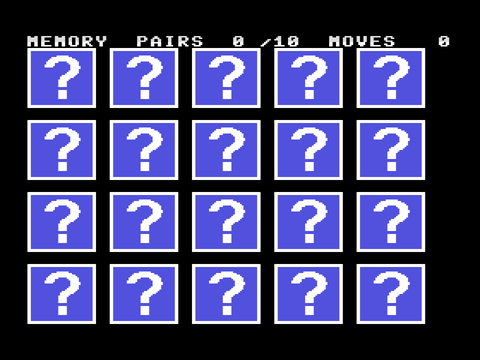
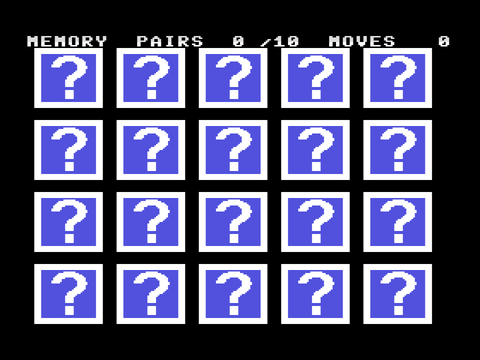
Build 87: centred memory cards, no stale job row on the title after a memory game
- memory cards are blocks of 6 x 5 characters (40 px card, 4 px black margin each side): the board is centred; edge characters hold black + one card colour (no colour bleed), the frame of the card back is 4 px
- the card data moved to its own bank (MEMD = MEMB + 1)
- job_reset when the memory game ends: the engine of the player kept the last card row and drew it over the title photo (streak)
- manual: new memory screenshots

Changed region(s): [[0.0312, 0.3361, 0.9062, 0.7028], [0.0312, 0.1222, 0.9062, 0.3056], [0.0312, 0.7333, 0.9062, 0.9167]]

diff --git a/tools/patch_cards6.py b/tools/patch_cards6.py
@@ -1,0 +1,91 @@
+"""one-off patch (applied once): the memory cards centred. A card is 40 x 40 pixels inside a block of 6 x 5 characters (48 x 40: four black pixels at both sides), so the
+5 blocks of the row fill the characters 1..30 and the margins at the left and the right are equal (12 pixels). The edge characters hold black and one card colour only (the frame is 4 pixels
+wide, the photos are coded with the black margin as a fixed colour): no colour bleed. 13 x 2 cards of 480 bytes do not fit in the overlay bank any more: they sit in their own data bank MEMD = MEMB + 1."""
+import os, re
+HERE = os.path.dirname(os.path.abspath(__file__)); G = os.path.join(HERE, '..', 'game')
+
+# ---- memplay.asm
+p = os.path.join(G, 'memplay.asm'); t = open(p).read()
+a = t.index('MEMDATA equ 0x4600'); b = t.index('        MACRO CELLADDR')
+t = t[:a] + """MEMDATA equ 0x4600
+CARD    equ 480                         ; a card: 5 rows of 48 pattern bytes, 5 rows of 48 colour bytes (6 x 5 characters: 40 pixels and a black margin of 4 pixels at both sides)
+MEMICON equ MEMDATA                     ; the big cards of the choice screen (2080 bytes each: MSX1, MSX2); the cards themselves are in the bank MEMD (26 x 480 bytes)
+
+""" + t[b:]
+a = t.index('csrc:'); b = t.index('dcard:')
+t = t[:a] + """csrc:   ld l,d                          ; D = card image 0..12 -> HL = its address in the bank MEMD as page 1 shows it (4000h +): 480 d (the variant of the machine)
+        ld h,0
+        add hl,hl
+        add hl,hl
+        add hl,hl
+        add hl,hl
+        add hl,hl                       ; 32 d
+        ld c,l
+        ld b,h
+        add hl,hl
+        add hl,hl
+        add hl,hl
+        add hl,hl                       ; 512 d
+        or a
+        sbc hl,bc                       ; 480 d
+        ld bc,0x4000
+        IF MSX2PAL
+        ld a,(v_msx)
+        or a
+        jr z,.b
+        ld bc,0x4000 + 13 * CARD
+.b:
+        ENDIF
+        add hl,bc
+        ret
+
+""" + t[b:]
+old = "dcard:  push de                         ; E = place, D = image\n        call csrc\n        pop de\n"
+assert old in t
+t = t.replace(old, """dcard:  push de                         ; E = place, D = image: the card is read through the window of page 2 (the bank MEMD)
+        call csrc
+        ld a,h
+        add a,0x40                      ; 8000h +
+        ld h,a
+        push hl
+        ld hl,MEMD
+        ld a,l
+        ld (0x7000),a
+        ld a,h
+        BANKHI 0x7001
+        pop hl
+        pop de
+""", 1)
+old = "        ld c,0x98\n        ld b,40\n.o:     outi\n        jp nz,.o\n        pop bc\n        inc b                           ; the next character row\n"
+assert old in t
+t = t.replace(old, old.replace('ld b,40', 'ld b,48'), 1)
+old = "        add a,8\n        ld (v_cx),a\n        ld a,(m_cy)"
+assert old in t
+t = t.replace(old, "        add a,12                        ; (the card starts four pixels into its block)\n        ld (v_cx),a\n        ld a,(m_cy)", 1)
+t = t.replace("x = 8 + 48 cx, y = 8 + 48 cy", "x = 12 + 48 cx, y = 8 + 48 cy", 1)
+t = t.replace("5 x 4 cards of 40 x 40 pixels (5 x 5 characters) with a gap of one character: card (cx, cy) has its top left\n; character at column 1 + 6 cx, row 1 + 6 cy; row 0 is the header.  The cards are in MEMDATA (tools/memory_cards.py): 13 per variant (12 photos, the back), 400 bytes each:\n; 5 rows of 40 pattern bytes, 5 rows of 40 colour bytes.",
+              "5 x 4 cards of 40 x 40 pixels in blocks of 6 x 5 characters (a black margin of 4 pixels at both sides): the block of card (cx, cy) has its top left\n; character at column 1 + 6 cx, row 1 + 6 cy; row 0 is the header.  The cards are in the bank MEMD (tools/memory_cards.py): 13 per variant (12 photos, the back), 480 bytes each:\n; 5 rows of 48 pattern bytes, 5 rows of 48 colour bytes.", 1)
+open(p, 'w').write(t)
+
+# ---- memory.asm (mem_jobs)
+p = os.path.join(G, 'memory.asm'); t = open(p).read()
+assert 'ld hl,MEMB\n        ld (q_bank),hl' in t
+t = t.replace('ld hl,MEMB\n        ld (q_bank),hl', 'ld hl,MEMD\n        ld (q_bank),hl', 1)
+t = t.replace("        ld b,40                         ; the patterns: 5 rows of 40 bytes", "        ld b,48                         ; the patterns: 5 rows of 48 bytes", 1)
+t = t.replace("        ld bc,200\n        add hl,bc                       ; the colours: 200 bytes further", "        ld bc,240\n        add hl,bc                       ; the colours: 240 bytes further", 1)
+t = t.replace("        ld b,40\n        ld c,5\n        call jq_put\n        pop hl\n        pop bc\n        djnz .e", "        ld b,48\n        ld c,5\n        call jq_put\n        pop hl\n        pop bc\n        djnz .e", 1)
+assert t.count('ld b,48') == 2, t.count('ld b,48')
+open(p, 'w').write(t)
+
+# ---- build_game.py
+p = os.path.join(HERE, 'build_game.py'); t = open(p).read()
+old = "    MEMB = len(banks) + (sum(nb) if ascii16 else 0)"
+assert old in t
+t = t.replace("    open(os.path.join(PROJ, 'game', 'memdata.bin'), 'wb').write(mc['data'])\n", "    open(os.path.join(PROJ, 'game', 'memdata.bin'), 'wb').write(mc['data'])\n    cardbank = pad(mc['cards'])                                                  # the cards of the memory game: their own bank (MEMD = MEMB + 1)\n", 1)
+t = t.replace("    assert MEMB < PLR_BANK - 1, MEMB\n", "    assert MEMB + 1 < PLR_BANK - 1, MEMB\n", 1)
+t = t.replace("'MEMB equ %d\nMEMPAL equ %d\nCHTH0 equ %d\nCHOICEPAL equ %d\n' % (MEMB, MEMPAL, CHTH0, CHOICEPAL)", "'MEMB equ %d\nMEMD equ %d\nMEMPAL equ %d\nCHTH0 equ %d\nCHOICEPAL equ %d\n' % (MEMB, MEMB + 1, MEMPAL, CHTH0, CHOICEPAL)", 1)
+t = t.replace("        f.write(membank)                # the memory game (MEMB = the first free bank)\n        f.write(bytes([0xFF]) * 16384 * (PLR_BANK - 2 - len(banks) - (sum(nb) if ascii16 else 0)))",
+              "        f.write(membank)                # the memory game (MEMB = the first free bank)\n        f.write(cardbank)               # its cards (MEMD = MEMB + 1)\n        f.write(bytes([0xFF]) * 16384 * (PLR_BANK - 3 - len(banks) - (sum(nb) if ascii16 else 0)))", 1)
+assert 'MEMD equ' in t and 'f.write(cardbank)' in t and 'PLR_BANK - 3 -' in t and "cardbank = pad" in t
+open(p, 'w').write(t)
+print('patched')

diff --git a/tools/memory_cards.py b/tools/memory_cards.py
@@ -1,5 +1,5 @@
-"""The cards of the memory game (game/memplay.asm): 12 photo cards and the back of a card, 40 x 40 pixels = 5 x 5 characters, coded for SCREEN 2 (2 colours per 8x1):
-a card = 5 rows of 40 pattern bytes, then 5 rows of 40 colour bytes (400 bytes; one character row of the card is 5 characters = 40 contiguous bytes in the VRAM).
+"""The cards of the memory game (game/memplay.asm): 12 photo cards and the back of a card, 40 x 40 pixels, coded for SCREEN 2 (2 colours per 8x1):
+a card = a block of 6 x 5 characters (48 x 40 pixels: the card with a black margin of 4 pixels at both sides): 5 rows of 48 pattern bytes, then 5 rows of 48 colour bytes (480 bytes).
  MSX1: the photos for the TMS9918A palette; MSX2: for one palette of 16 colours for all the cards (colours 0 and 1 black, 4 = the blue of the card back, 3 / 9 (cursor), 14 / 15 (text) as in the TMS9918A; the other 9 are
  optimised on the mosaic of the photos).  The back of the card is drawn with exactly two colours (blue 4 and white 15), not coded: no dither, no colour spill.
   build() -> dict(data = 2 x 13 cards (MSX1 photos 0..11 + back, MSX2 photos 0..11 + back), pal = 32 bytes V9938 of the MSX2 palette, previews in work/preview/memory_*.png)"""
@@ -9,6 +9,7 @@ from PIL import Image, ImageDraw, ImageFont
 HERE = os.path.dirname(os.path.abspath(__file__)); PROJ = os.path.dirname(HERE)
 sys.path.insert(0, HERE); sys.path.insert(0, r'F:\MSX Projects\Dev27\msx1-video-player\tools')
 CW = CH = 40
+CWB, MARG = 48, 4                                   # a block of 6 x 5 characters: the card with a black margin of 4 pixels at both sides (the blocks of the row are centred on the screen)
 BLUE, WHITE = 4, 15
 KEEP = (3, 9, 14, 15)                            # the colours of the cursor (flashing, as everywhere in the game) and of the bold text (grey, white): as the TMS9918A has them
 FREE = [2, 5, 6, 7, 8, 10, 11, 12, 13]
@@ -57,10 +58,10 @@ def palette(tl):
 
 
 def back_mask():
-    """the back of a card: a white frame and a white question mark on blue (two colours only); the question mark is centred on its ink"""
+    """the back of a card (40 x 40): a white frame of 4 pixels and a white question mark; the question mark is centred on its ink"""
     im = Image.new('L', (CW, CH), 0)
     d = ImageDraw.Draw(im)
-    d.rectangle([0, 0, CW - 1, CH - 1], outline=255, width=2)
+    d.rectangle([0, 0, CW - 1, CH - 1], outline=255, width=4)
     f = ImageFont.truetype('C:/Windows/Fonts/arialbd.ttf', 40)
     x0, y0, x1, y1 = d.textbbox((0, 0), '?', font=f)
     d.text(((CW - (x1 - x0)) // 2 - x0, (CH - (y1 - y0)) // 2 - y0), '?', font=f, fill=255)
@@ -110,11 +111,32 @@ def card_bytes(pat, col):
 
 
 def back_card():
-    m = back_mask()
-    pat = (m.reshape(CH, CW // 8, 8).astype(np.uint8) << (7 - np.arange(8, dtype=np.uint8))).sum(-1).astype(np.uint8)
-    col = np.full(pat.shape, (WHITE << 4) | BLUE, np.uint8)
-    rend = np.zeros((CH, CW, 3), np.uint8)
+    """-> the bytes of the card (6 x 5 characters) and the mask of the white; the edge characters hold black and white only (the frame is 4 pixels wide), the others blue and white"""
+    m = np.zeros((CH, CWB), bool)
+    m[:, MARG:MARG + CW] = back_mask()
+    card = np.zeros((CH, CWB), bool)
+    card[:, MARG:MARG + CW] = True
+    pat = np.zeros((CH, CWB // 8), np.uint8)
+    col = np.zeros((CH, CWB // 8), np.uint8)
+    for y in range(CH):
+        for cx in range(CWB // 8):
+            sl = slice(cx * 8, cx * 8 + 8)
+            w, c = m[y, sl], card[y, sl]
+            bg = BLUE if c.all() else 1
+            assert c.all() or (w == c).all(), (y, cx)           # an edge character: the card pixels in it are white (no blue next to the black margin)
+            pat[y, cx] = int(sum(1 << (7 - i) for i in range(8) if w[i]))
+            col[y, cx] = (WHITE << 4) | bg
     return card_bytes(pat, col), m
+
+
+def pad_card(t):
+    """a 40 x 40 photo in a block of 48 x 40: a black margin of 4 pixels at both sides (fixed black: the edge characters keep black and one photo colour)"""
+    img = np.zeros((CH, CWB, 3), np.float32)
+    img[:, MARG:MARG + CW] = np.asarray(t, np.float32)
+    fix = np.zeros((CH, CWB), np.int8)
+    fix[:, :MARG] = 1
+    fix[:, MARG + CW:] = 1
+    return img, fix
 
 
 def build(blue_msx2=5):
@@ -132,19 +154,21 @@ def build(blue_msx2=5):
     for kind, tl, pl in ((1, t1, None), (2, t2, pal)):
         rs = []
         for t in tl:
-            pat, col, rend = stills.encode(np.asarray(t, np.float32), None, pl)
+            img, fix = pad_card(t)
+            pat, col, rend = stills.encode(img, fix, pl)
             data += card_bytes(pat, col); rs.append(rend)
         data += bk
         rends[kind] = rs
     for kind in (1, 2):
         pl = pal if kind == 2 else PO.TMS
-        sh = Image.new('RGB', (4 * 44 * 3, 4 * 44 * 3))
-        for k, r in enumerate(rends[kind] + [np.where(m[..., None], pl[WHITE], pl[BLUE]).astype(np.uint8)]):
-            sh.paste(Image.fromarray(np.asarray(r, np.uint8)).resize((120, 120), Image.NEAREST), ((k % 4) * 132, (k // 4) * 132))
+        sh = Image.new('RGB', (4 * 52 * 3, 4 * 44 * 3))
+        for k, r in enumerate(rends[kind] + [np.where(m[..., None], pl[WHITE], np.where(np.pad(np.ones((CH, CW), bool), ((0, 0), (MARG, MARG)))[..., None], pl[BLUE], pl[1])).astype(np.uint8)]):
+            sh.paste(Image.fromarray(np.asarray(r, np.uint8)).resize((144, 120), Image.NEAREST), ((k % 4) * 156, (k // 4) * 132))
         sh.save(os.path.join(prev, 'memory_cards_msx%d.png' % kind))
     data += big_card(BIG_BLUE[0]) + big_card(blue_msx2)         # the cards of the choice screen: MSX1, MSX2
-    assert len(data) == 2 * 13 * 400 + 2 * 2080
-    return dict(data=data, pal=PO.to_v9938(pal))
+    cards, data = data[:2 * 13 * 480], data[2 * 13 * 480:]
+    assert len(cards) == 2 * 13 * 480 and len(data) == 2 * 2080
+    return dict(data=data, cards=cards, pal=PO.to_v9938(pal))
 
 
 if __name__ == '__main__':

diff --git a/tools/build_game.py b/tools/build_game.py
@@ -383,12 +383,13 @@ def main():
         paltab = paltab + ct['pal']
     mc = memory_cards.build(ct['x'] if msx2 else 5)
     open(os.path.join(PROJ, 'game', 'memdata.bin'), 'wb').write(mc['data'])
+    cardbank = pad(mc['cards'])                                                  # the cards of the memory game: their own bank (MEMD = MEMB + 1)
     MEMPAL = len(paltab) // 32 if msx2 else 0
     if msx2:
         paltab = paltab + mc['pal']
     MEMB = len(banks) + (sum(nb) if ascii16 else 0)                              # a free bank below PLR_BANK - 1: page 1 is switched to it with two writes (low, high byte), so the high byte must be 0 like that of OVLB
-    assert MEMB < PLR_BANK - 1, MEMB
-    open(os.path.join(PROJ, 'game', 'memcfg.inc'), 'w').write('MEMB equ %d\nMEMPAL equ %d\nCHTH0 equ %d\nCHOICEPAL equ %d\n' % (MEMB, MEMPAL, CHTH0, CHOICEPAL))
+    assert MEMB + 1 < PLR_BANK - 1, MEMB
+    open(os.path.join(PROJ, 'game', 'memcfg.inc'), 'w').write('MEMB equ %d\nMEMD equ %d\nMEMPAL equ %d\nCHTH0 equ %d\nCHOICEPAL equ %d\n\n' % (MEMB, MEMB + 1, MEMPAL, CHTH0, CHOICEPAL))
     open(os.path.join(PROJ, 'game', 'fonycfg.inc'), 'w').write('FYFRAMES equ %d\nFYFRAMES16 equ %d\nFYP1 equ %d\nFYP2 equ %d\nFYS1 equ %d\nFYS2 equ %d\nFONYPAL equ %d\nFONYTEST equ %d\nBOOMP equ %d\nBOOMS equ %d\nNBOOMP equ %d\nNBOOMS equ %d\n' % (fv['n'], fv['n'], FYP1, FYP2, FYS1, FYS2, FONYPAL, 1 if '--fonytest' in sys.argv else 0, BOOMP, BOOMS, len(boomp) // 16384, len(booms) // 16384))
     open(os.path.join(PROJ, 'game', 'fonytab.inc'), 'w').write(fv['tab'])
     JNGP = EX0; JNGS = JNGP + len(jing8) // 16384
@@ -474,7 +475,8 @@ def main():
                 pat, col = load(c)
                 f.write(packed(pat, col))
         f.write(membank)                # the memory game (MEMB = the first free bank)
-        f.write(bytes([0xFF]) * 16384 * (PLR_BANK - 2 - len(banks) - (sum(nb) if ascii16 else 0)))
+        f.write(cardbank)               # its cards (MEMD = MEMB + 1)
+        f.write(bytes([0xFF]) * 16384 * (PLR_BANK - 3 - len(banks) - (sum(nb) if ascii16 else 0)))
         f.write((plr_scc + bytes([0xFF]) * (16384 - len(plr_scc))) if scc else bytes([0xFF]) * 16384)      # bank PLR_BANK - 1: the player block for the SCC
         f.write(plr + bytes([0xFF]) * (16384 - len(plr)))      # bank PLR_BANK: the player block for the RAM
         f.write(ovl)                    # bank VIDEO0 - 1 = OVLB
